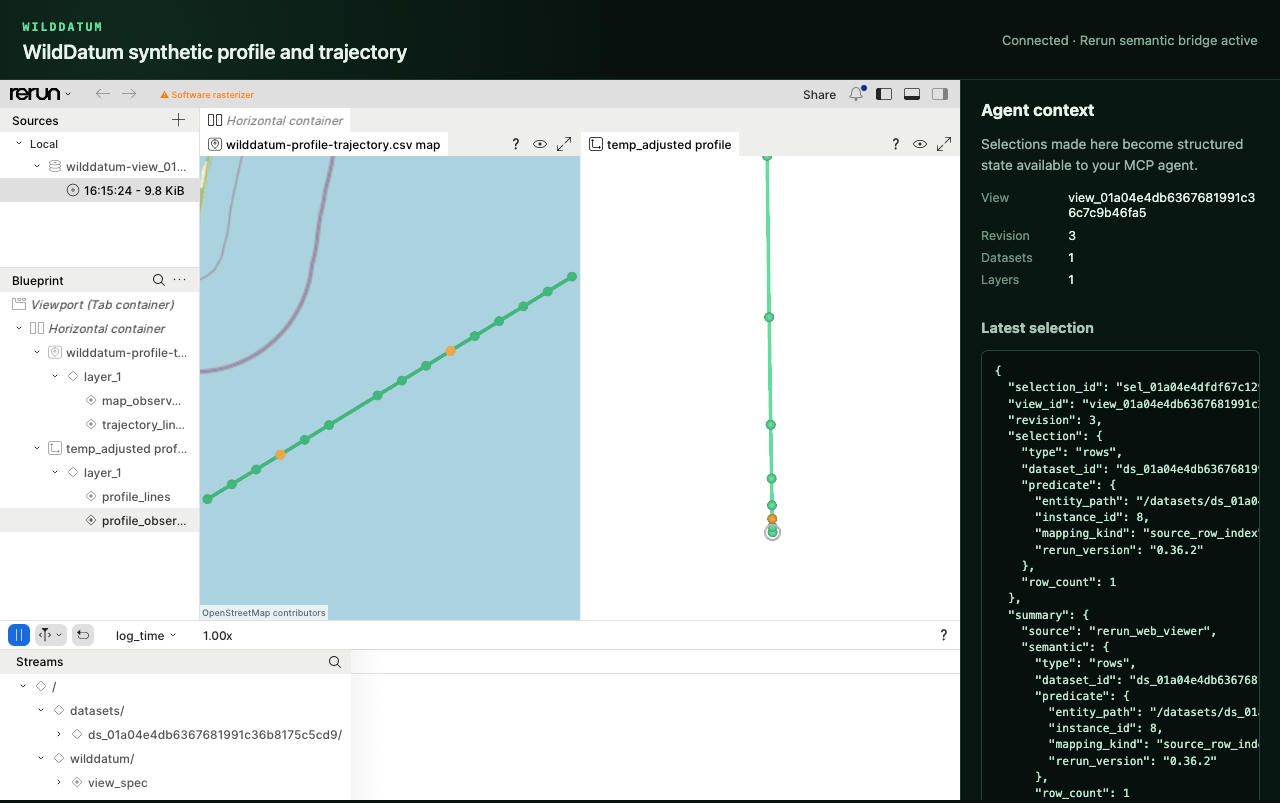
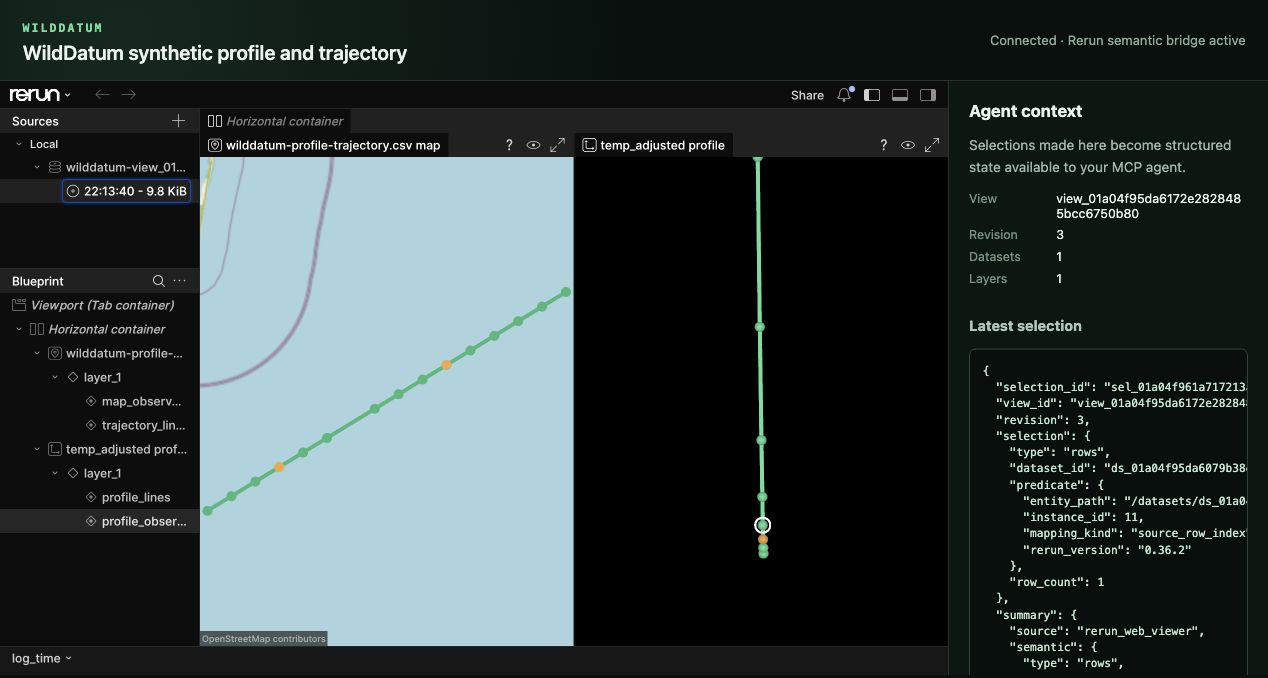
docs: refresh WildDatum browser screenshots

diff --git a/ROADMAP.md b/ROADMAP.md
@@ -35,7 +35,7 @@ RIs instead of adding institution-specific MCP tools.
   materialization, license, citation, and provenance capture.
 - [x] Ship maintained presets for EMSO ERIC, the public ICOS ERDDAP surface,
   and Euro-Argo/Argo data served by Ifremer.
-- [ ] Add linked trajectory-map and vertical-profile Rerun views with exact
+- [x] Add linked trajectory-map and vertical-profile Rerun views with exact
   source-row selection and QC-aware configuration.
 - [x] Add synthetic fixtures and opt-in live smoke tests for all three public
   services; normal CI remains deterministic and offline.

diff --git a/README.md b/README.md
@@ -22,7 +22,7 @@ provider-independent manifest, query, view, selection, and provenance model.
 
 _A real WildDatum browser session using Rerun Web Viewer: a 6.6-million-point
 NEON LAS tile, a 500×500×107 reflectance cube, immutable provenance, and a
-verified selection mapped back to LAS source row 1,800,316._
+verified selection mapped back to LAS source row 2,543,044._
 
 <!-- mcp-name: io.github.krnzt/wilddatum -->
 
